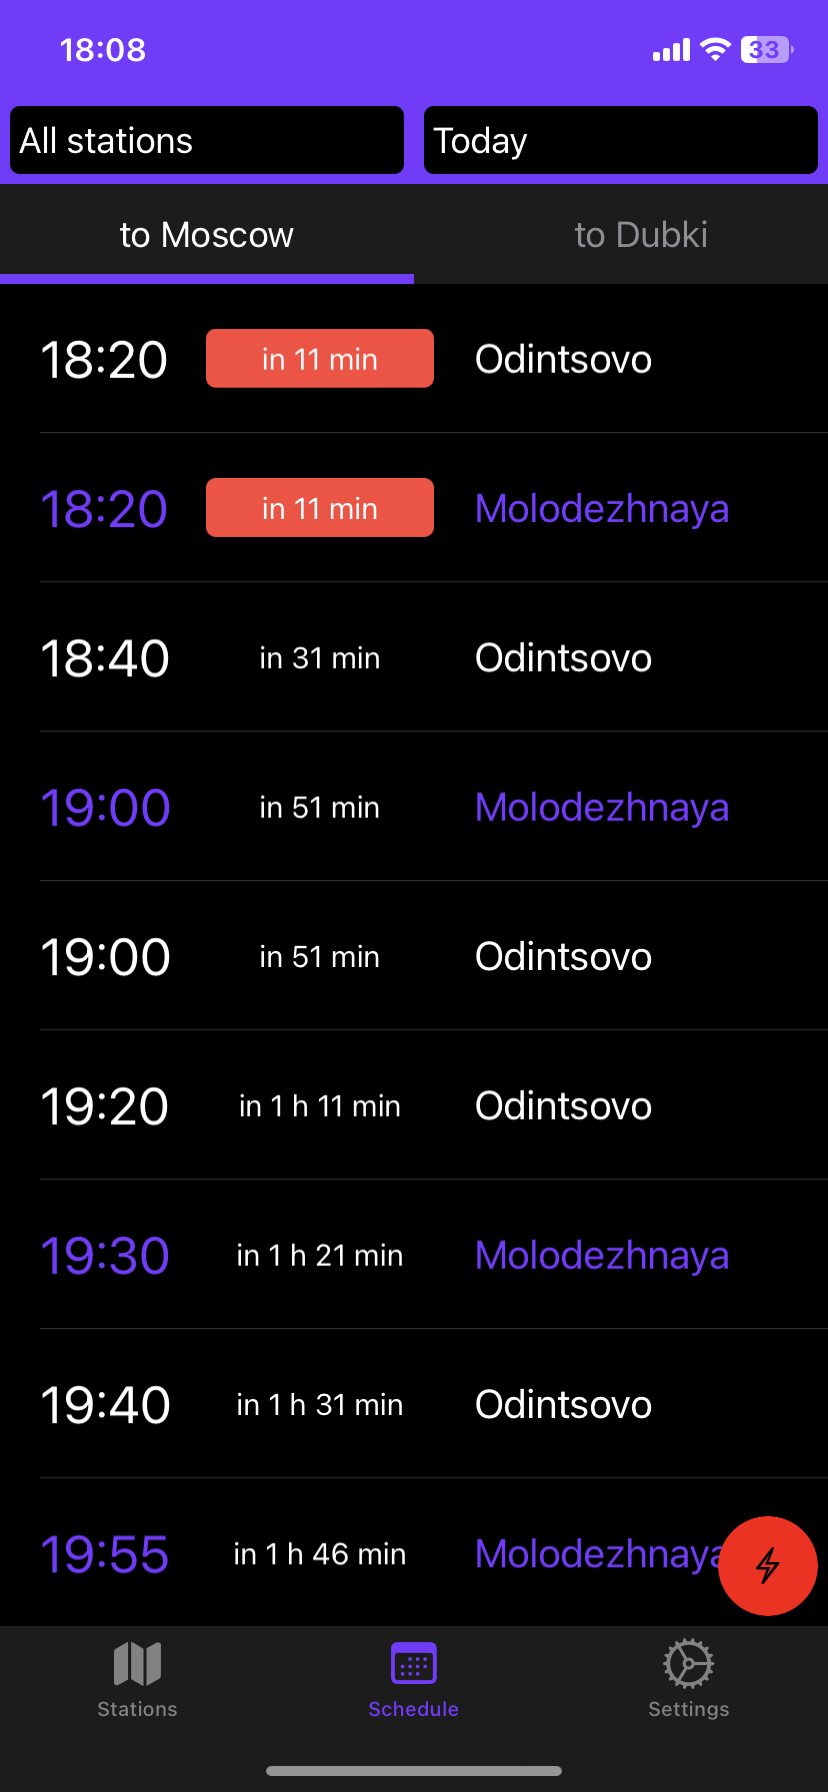
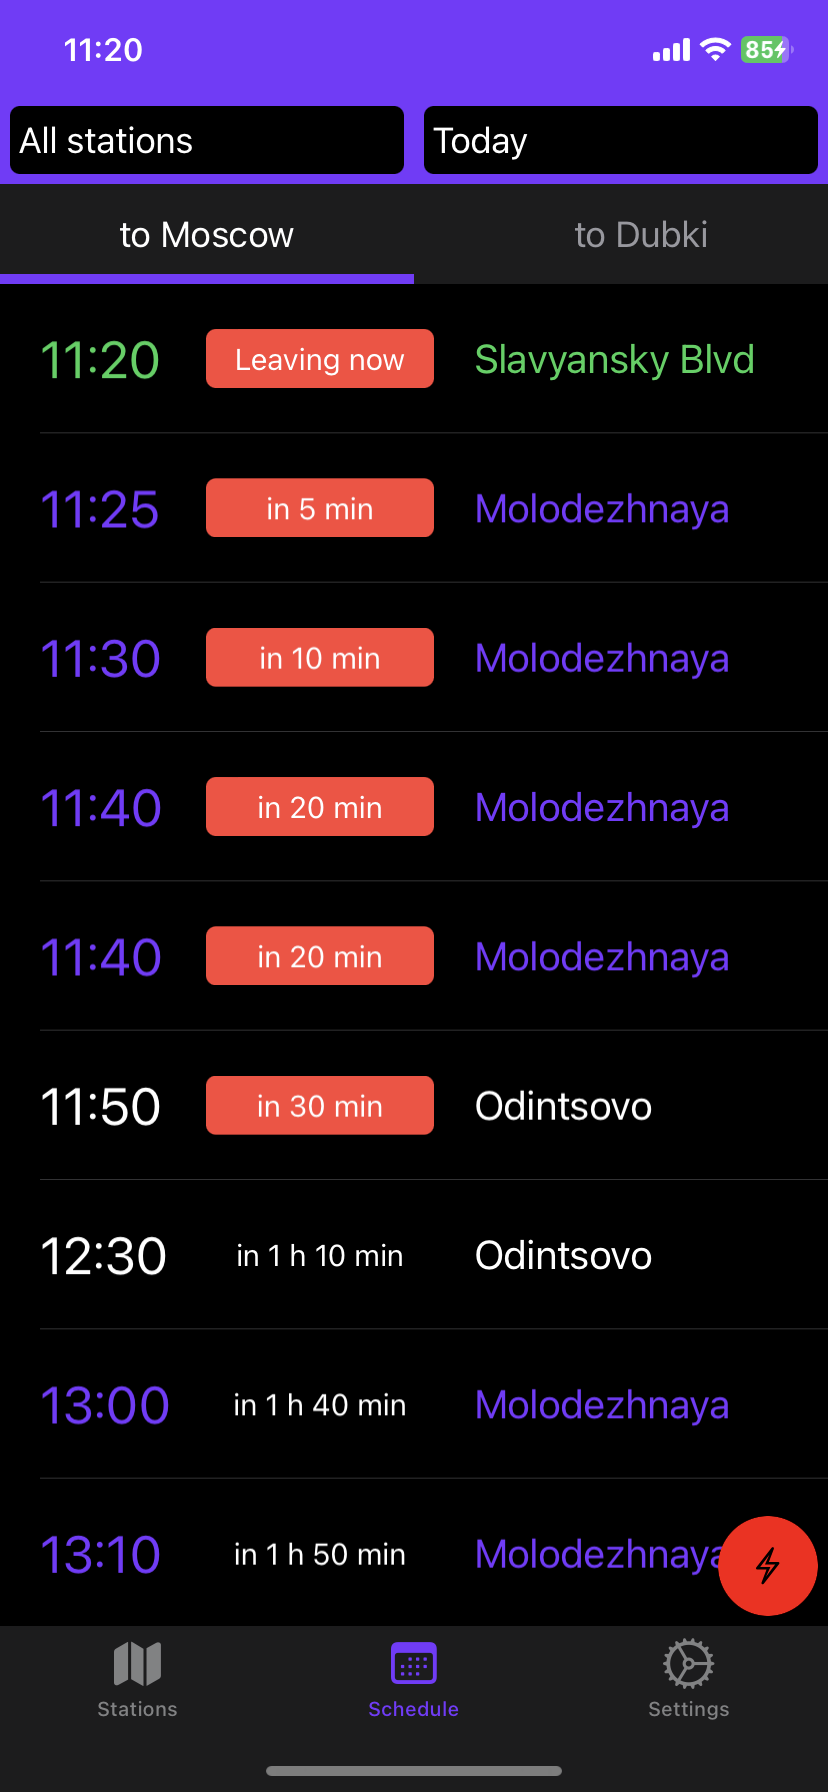
fix bug with closest bus && fix time displaing && update readme photos

diff --git a/DubovozkiApp/TabBarModule/ScheduleModule/Presenter/ScheduleViewPresenter.swift b/DubovozkiApp/TabBarModule/ScheduleModule/Presenter/ScheduleViewPresenter.swift
@@ -26,6 +26,9 @@ protocol ScheduleViewPresenterProtocol: AnyObject {
 class ScheduleViewPresenter: NSObject, ScheduleViewPresenterProtocol {
     private enum Constants {
         static let millisecondsInDay: Int64 = 86400000
+        
+        static let updateTablesTimeSeconds: TimeInterval = 3
+        static let updateDataTimeSeconds: TimeInterval = 60
     }
     
     private var refreshTablesTimer: Timer?
@@ -60,7 +63,6 @@ class ScheduleViewPresenter: NSObject, ScheduleViewPresenterProtocol {
             currentSelectionOfDate = dataEnum
         }
         
-        setClosest()
         refreshTables()
     }
     
@@ -134,12 +136,12 @@ class ScheduleViewPresenter: NSObject, ScheduleViewPresenterProtocol {
         let milliseconds = Int64(now.timeIntervalSince(midnight) * 1000)
         
         closestMskBus.item = mskBuses?.firstIndex {
-            let dif = ($0.dayTime - milliseconds)
+            let dif = ($0.dayTime + 60000 - milliseconds)
             return dif > 0
         } ?? 0
         
         closestDubkiBus.item = dubkiBuses?.firstIndex {
-            let dif = ($0.dayTime - milliseconds)
+            let dif = ($0.dayTime + 60000 - milliseconds)
             return dif > 0
         } ?? 0
     }
@@ -152,8 +154,6 @@ class ScheduleViewPresenter: NSObject, ScheduleViewPresenterProtocol {
             mskBuses = mskBuses?.filter { $0.day == Filters.date.todayVar }
             dubkiBuses = buses?.filter { $0.direction == Filters.direction.dbk.rawValue }
             dubkiBuses = dubkiBuses?.filter { $0.day == Filters.date.todayVar }
-           
-            setClosest()
         }
     }
     
@@ -162,6 +162,7 @@ class ScheduleViewPresenter: NSObject, ScheduleViewPresenterProtocol {
     
     @objc
     private func refreshTables() {
+        setClosest()
         view?.mskTableView.reloadData()
         view?.dubkiTableView.reloadData()
     }
@@ -196,9 +197,9 @@ class ScheduleViewPresenter: NSObject, ScheduleViewPresenterProtocol {
     required init(view: ScheduleViewProtocol, model: ModelProtocol) {
         super.init()
         
-        self.refreshTablesTimer = Timer(timeInterval: 15.0, target: self,
+        self.refreshTablesTimer = Timer(timeInterval: Constants.updateTablesTimeSeconds, target: self,
                                          selector: #selector(self.refreshTables), userInfo: nil, repeats: true)
-        self.refreshDataTimer = Timer(timeInterval: 300.0, target: self,
+        self.refreshDataTimer = Timer(timeInterval: Constants.updateDataTimeSeconds, target: self,
                                        selector: #selector(self.getData), userInfo: nil, repeats: true)
         RunLoop.main.add(self.refreshTablesTimer!, forMode: .default)
         RunLoop.main.add(self.refreshDataTimer!, forMode: .default)

diff --git a/DubovozkiApp/TabBarModule/ScheduleModule/View/Table/BusCellView.swift b/DubovozkiApp/TabBarModule/ScheduleModule/View/Table/BusCellView.swift
@@ -24,6 +24,8 @@ class BusCell: UITableViewCell {
         
         static let stationTextSize: CGFloat = 20
         static let stationOffsetFromCenter: CGFloat = 30
+        
+        static let millisecondsInMin: Int64 = 60000
     }
     
     private let stationLabel: UILabel = {
@@ -52,7 +54,7 @@ class BusCell: UITableViewCell {
         let midnight = calendar.startOfDay(for: now)
         let milliseconds = Int64(now.timeIntervalSince(midnight) * 1000)
         
-        if busTime < milliseconds {
+        if busTime + Constants.millisecondsInMin < milliseconds {
             return Filters.typeOfBus.passed
         } else {
             if (busTime - milliseconds) <= Filters.closeBusTime {
@@ -73,7 +75,7 @@ class BusCell: UITableViewCell {
         let difference = busTime - milliseconds
         
         let houres = difference/3600000
-        let minutes: Int64 = (difference - 3600000 * houres)/60000
+        let minutes: Int64 = (difference - 3600000 * houres)/60000 + (difference >= 0 ? 1 : 0)
         
         let houresStr = (houres != 0) ? "\(abs(houres)) " + "h".localized() + " " : ""
         let minutesStr = (minutes != 0) ? "\(abs(minutes)) " + "min".localized() : ""
